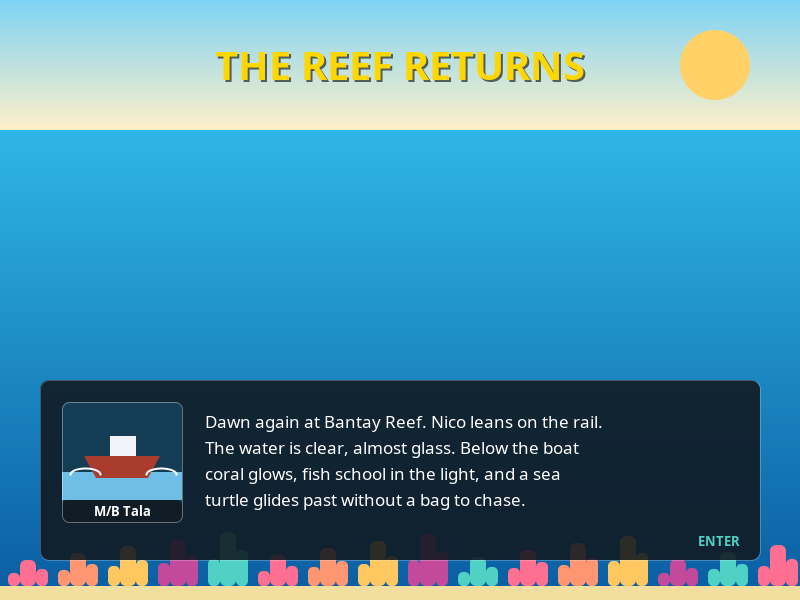
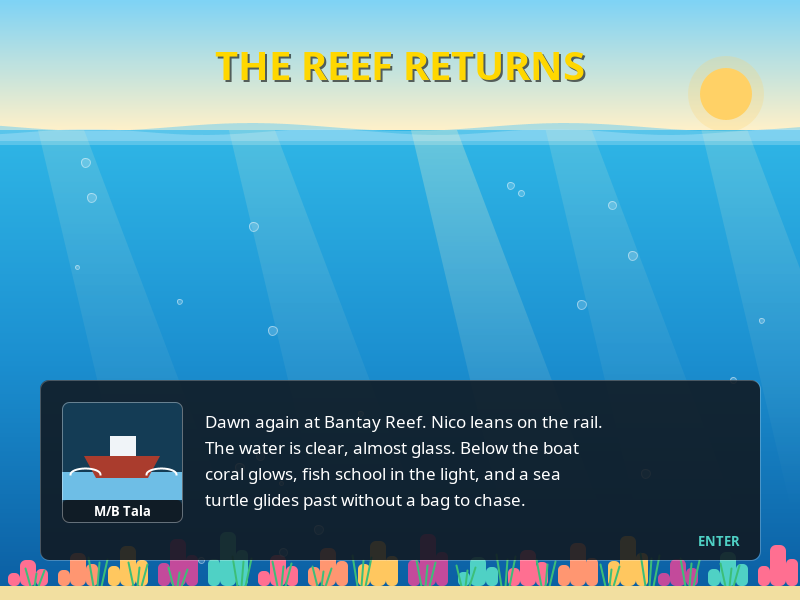
docs: refresh screenshots and README for the new visuals

diff --git a/README.md b/README.md
@@ -92,7 +92,8 @@ FISH2TRASH/
 │   │   ├── Screen           interface every screen implements
 │   │   ├── MainMenu, HowToScreen, StoryScreen, GameScreen, PauseOverlay,
 │   │   │   ChapterClearScreen, GameOverScreen, VictoryScreen
-│   │   └── render/          SceneRenderer, HudPainter, one painter per object kind
+│   │   └── render/          SceneRenderer, HudPainter, EffectsSystem, backgrounds and
+│   │                        water, one painter per object kind
 │   └── util/
 │       ├── GameConstants    every tuning number in one place
 │       ├── StoryText        every line of text the player reads
@@ -163,7 +164,7 @@ no test library is needed. The script exits with an error if any check fails.
 | `BalanceBotTest` | A simple computer player must be able to win every chapter at least half the time |
 | `StoryTextTest` | Every story page, fail message and tip fits its box |
 | `ScreenFlowTest` | Key presses lead to the right screens: menu, story, pause, fired screen, retry |
-| `RenderTest`, `MathxTest` | Drawing into an off-screen image; the math helpers |
+| `RenderTest`, `EffectsTest`, `MathxTest` | Drawing into an off-screen image, each chapter's look, the bubble and effect pools; the math helpers |
 
 The tests cannot judge how the game feels to play. Use the checklist below for that.
 
